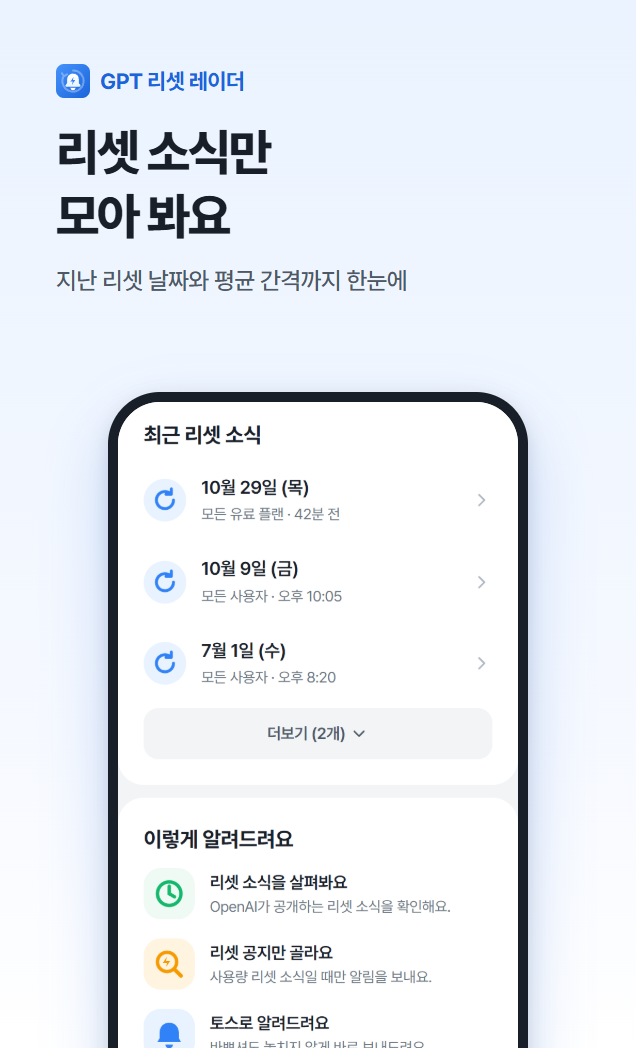
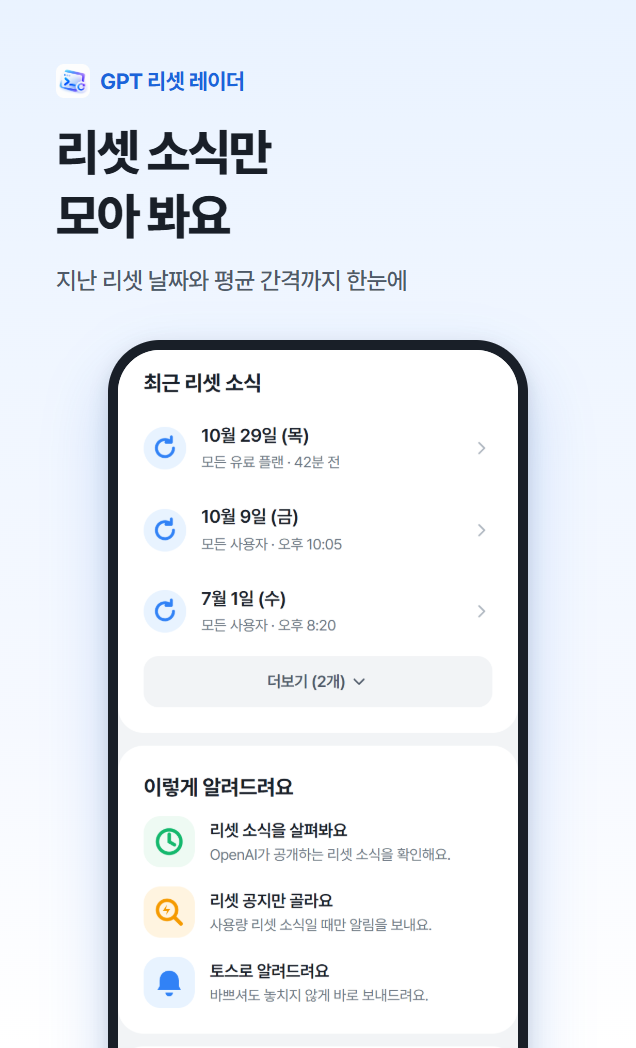
[Design] 새 앱 로고 적용과 콘솔 스크린샷 휴대폰 위치 조정

diff --git a/tests/browser/store-shots.spec.ts b/tests/browser/store-shots.spec.ts
@@ -1,4 +1,6 @@
 import { test, expect, type Page, type Browser } from '@playwright/test';
+import { copyFile, mkdir } from 'node:fs/promises';
+import { basename } from 'node:path';
 
 /**
  * 앱인토스 콘솔 업로드용 홍보 스크린샷.
@@ -59,13 +61,23 @@ async function render(browser: Browser, width: number, height: number, html: str
   const p = await ctx.newPage();
   await p.setContent(`<html><head><style>${baseCss}</style></head><body>${html}</body></html>`);
   await p.evaluate(() => Promise.all([...document.images].map(i => i.decode())));
-  await p.screenshot({ path, type: 'png' });
+  // 사진 뷰어 등이 파일을 열고 있으면 바로 덮어쓰지 못해요. 임시 파일에 그린 뒤 풀릴 때까지 다시 복사해요.
+  await mkdir('test-results/store', { recursive: true });
+  const tmp = `test-results/store/${basename(path)}`;
+  await p.screenshot({ path: tmp, type: 'png' });
   await ctx.close();
+  for (let i = 0; ; i++) {
+    try { await copyFile(tmp, path); return; }
+    catch (e) {
+      if (i >= 14) throw new Error(`${path} 파일이 다른 프로그램에 열려 있어 저장하지 못했어요. 닫고 다시 실행해 주세요.`);
+      await new Promise(r => setTimeout(r, 1000));
+    }
+  }
 }
 
 test('콘솔 홍보 스크린샷 (세로 3장 + 가로 1장)', async ({ page, browser, baseURL }) => {
   const screens = await captureScreens(page);
-  const logo = `${baseURL}/logo.svg`;
+  const logo = `${baseURL}/logo.png`;
 
   // 세로형 636×1048: 위에 설명, 아래에 화면이 잘려 들어가는 앱스토어 형식
   for (const [i, s] of SHOTS.entries()) {
@@ -74,7 +86,7 @@ test('콘솔 홍보 스크린샷 (세로 3장 + 가로 1장)', async ({ page, br
         <div class="brand" style="font-size:22px;"><img src="${logo}" width="34" height="34">GPT 리셋 레이더</div>
         <h1 style="font-size:50px;margin-top:22px;">${s.title}</h1>
         <p style="font-size:24px;margin-top:16px;">${s.sub}</p>
-        ${s.align === 'bottom' ? phone(screens[i], 420, 'left:108px;top:392px;', 600, 'bottom') : phone(screens[i], 420, 'left:108px;top:392px;')}
+        ${s.align === 'bottom' ? phone(screens[i], 420, 'left:108px;top:340px;', 640, 'bottom') : phone(screens[i], 420, 'left:108px;top:340px;')}
       </div>`, out(s.file));
   }
 

diff --git a/index.html b/index.html
@@ -5,7 +5,7 @@
     <meta name="viewport" content="width=device-width, initial-scale=1.0, viewport-fit=cover" />
     <meta name="theme-color" content="#ffffff" />
     <meta name="description" content="GPT 사용량이 리셋되면 바로 알려드려요" />
-    <link rel="icon" href="/logo.svg" type="image/svg+xml" />
+    <link rel="icon" href="/logo.png" type="image/png" />
     <title>GPT 리셋 레이더 · GPT 사용량 리셋을 가장 먼저</title>
   </head>
   <body><div id="root"></div><script type="module" src="/src/main.tsx"></script></body>

diff --git a/src/Art.tsx b/src/Art.tsx
@@ -1,7 +1,7 @@
 /** 토스 스타일의 부드러운 3D 느낌 일러스트. 모두 장식용이라 aria-hidden이에요. */
 
 export function Logo({ size = 28 }: { size?: number }) {
-  return <img src={`${import.meta.env.BASE_URL}logo.svg`} width={size} height={size} alt="" aria-hidden="true" className="logo" />;
+  return <img src={`${import.meta.env.BASE_URL}logo.png`} width={size} height={size} alt="" aria-hidden="true" className="logo" />;
 }
 
 /** 다시 채워지는 사용량 게이지 */

diff --git a/README.md b/README.md
@@ -97,7 +97,7 @@ server/toss.ts      앱인토스 파트너 API(mTLS) · 개발용 mock
 server/store.ts     SQLite (구독자·세션·게시물·이벤트)
 server/app.ts       공개 API (CORS 허용 목록, 요청 제한)
 src/                React 화면, 토스 SDK 연동, SVG 일러스트
-scripts/            poll · admin · 출시 검사 · 로고 렌더링
+scripts/            poll · admin · 출시 검사
 deploy/             systemd · nginx · release.sh
 ```
 
